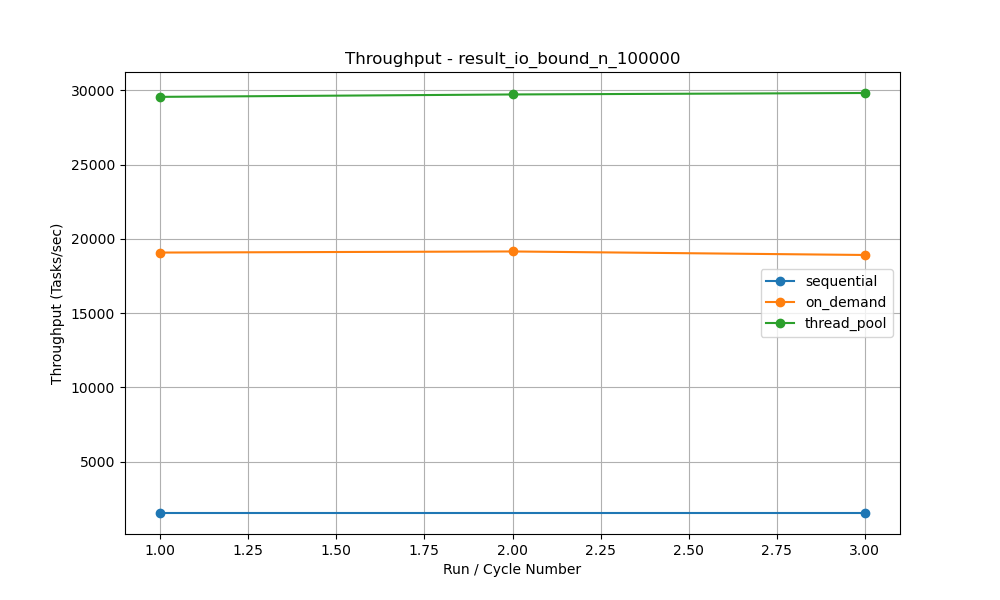
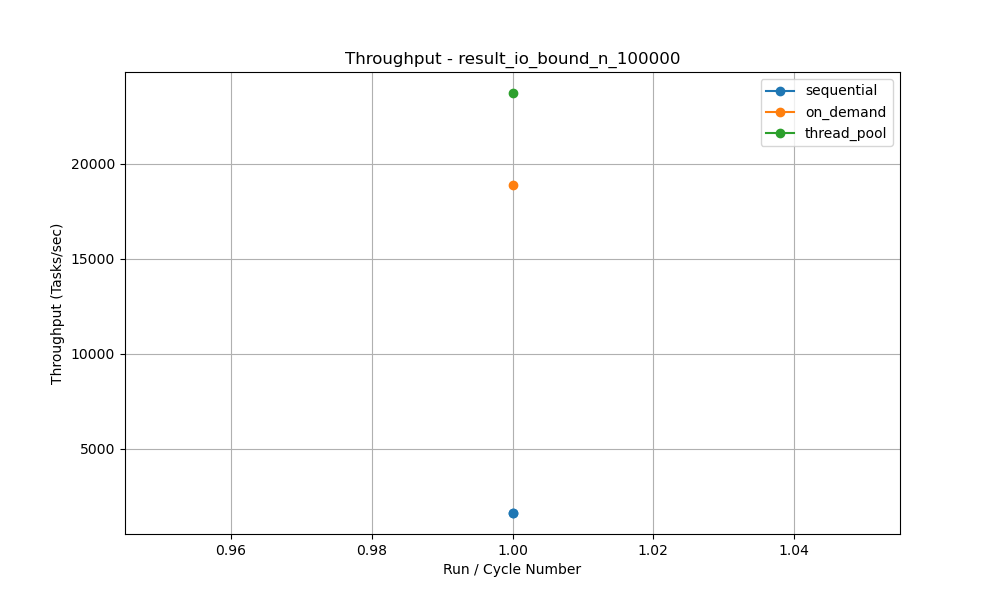
chore(benchmark): refresh benchmark artifacts from latest run
Regenerate plots, result tables, and LaTeX tables from the latest
benchmark run to keep committed artifacts in sync with raw data.

diff --git a/benchmark/res/tables.tex b/benchmark/res/tables.tex
@@ -6,8 +6,8 @@
 \toprule
 Benchmark & Mine (t/s) & Baseline (t/s) & Ratio & CV (mine / base) \\
 \midrule
-CPU-bound (fib30, 100K) & 4\,565.6 $\pm$ 2.3 & 4\,531.7 $\pm$ 1.4 & 1.007x & 0.05\% / 0.03\% \\
-IO-bound (64KB read, 100K) & 29\,698.7 $\pm$ 131.2 & 30\,085.2 $\pm$ 1\,180.9 & 0.987x & 0.44\% / 3.93\% \\
+CPU-bound (fib30, 100K) & 6\,096.4 $\pm$ 0.0 & 6\,141.6 $\pm$ 0.0 & 0.993x & 0.00\% / 0.00\% \\
+IO-bound (64KB read, 100K) & 23\,733.2 $\pm$ 0.0 & 23\,400.5 $\pm$ 0.0 & 1.014x & 0.00\% / 0.00\% \\
 \bottomrule
 \end{tabular}
 \end{table}
@@ -20,13 +20,13 @@ IO-bound (64KB read, 100K) & 29\,698.7 $\pm$ 131.2 & 30\,085.2 $\pm$ 1\,180.9 & 
 \toprule
 Workers & Mine (t/s) & Baseline (t/s) & Ratio \\
 \midrule
-1 & 8\,548.1 $\pm$ 30.1 & 8\,262.2 $\pm$ 24.9 & 1.035x \\
-2 & 17\,211.9 $\pm$ 30.3 & 16\,557.1 $\pm$ 121.5 & 1.040x \\
-4 & 34\,346.9 $\pm$ 78.8 & 33\,138.1 $\pm$ 73.7 & 1.036x \\
-8 & 58\,126.1 $\pm$ 818.8 & 56\,579.1 $\pm$ 150.2 & 1.027x \\
-16 & 66\,912.8 $\pm$ 208.1 & 63\,735.2 $\pm$ 429.4 & 1.050x \\
-32 & 66\,796.1 $\pm$ 283.7 & 63\,829.2 $\pm$ 59.0 & 1.046x \\
-64 & 66\,778.2 $\pm$ 254.2 & 63\,857.2 $\pm$ 172.3 & 1.046x \\
+1 & 12\,684.1 $\pm$ 34.3 & 12\,179.6 $\pm$ 54.4 & 1.041x \\
+2 & 25\,165.8 $\pm$ 36.1 & 24\,122.6 $\pm$ 27.8 & 1.043x \\
+4 & 47\,761.9 $\pm$ 217.1 & 46\,211.5 $\pm$ 315.5 & 1.034x \\
+8 & 87\,202.2 $\pm$ 2\,057.2 & 84\,599.2 $\pm$ 1\,733.6 & 1.031x \\
+16 & 92\,100.7 $\pm$ 1\,750.7 & 89\,294.1 $\pm$ 287.3 & 1.031x \\
+32 & 92\,022.8 $\pm$ 2\,975.9 & 89\,525.3 $\pm$ 606.3 & 1.028x \\
+64 & 91\,952.1 $\pm$ 1\,454.9 & 89\,095.2 $\pm$ 519.0 & 1.032x \\
 \bottomrule
 \end{tabular}
 \end{table}
@@ -39,11 +39,11 @@ Workers & Mine (t/s) & Baseline (t/s) & Ratio \\
 \toprule
 Workers & Mine (ops/s) & Baseline (ops/s) & Ratio \\
 \midrule
-1 & 3\,702\,692.2 $\pm$ 232\,164.0 & 5\,533\,950.3 $\pm$ 329\,751.0 & 0.669x \\
-2 & 3\,205\,438.5 $\pm$ 57\,715.6 & 4\,483\,572.0 $\pm$ 112\,952.2 & 0.715x \\
-4 & 1\,242\,745.0 $\pm$ 345\,427.7 & 1\,874\,934.0 $\pm$ 49\,907.6 & 0.663x \\
-8 & 800\,821.2 $\pm$ 36\,634.9 & 773\,287.0 $\pm$ 52\,084.6 & 1.036x \\
-16 & 728\,600.9 $\pm$ 19\,626.3 & 738\,767.7 $\pm$ 5\,122.1 & 0.986x \\
+1 & 5\,920\,081.2 $\pm$ 76\,410.6 & 8\,469\,928.1 $\pm$ 190\,271.0 & 0.699x \\
+2 & 5\,182\,658.2 $\pm$ 42\,833.2 & 7\,000\,034.1 $\pm$ 71\,943.0 & 0.740x \\
+4 & 3\,733\,903.4 $\pm$ 14\,005.3 & 4\,992\,465.7 $\pm$ 41\,381.1 & 0.748x \\
+8 & 1\,585\,654.7 $\pm$ 51\,711.0 & 2\,358\,960.3 $\pm$ 326\,279.8 & 0.672x \\
+16 & 813\,579.9 $\pm$ 21\,630.2 & 845\,507.9 $\pm$ 2\,003.4 & 0.962x \\
 \bottomrule
 \end{tabular}
 \end{table}
@@ -56,20 +56,20 @@ Workers & Mine (ops/s) & Baseline (ops/s) & Ratio \\
 \toprule
 Benchmark & Mine CV (\%) & Base CV (\%) & Stability advantage \\
 \midrule
-CPU-bound & 0.05\% & 0.03\% & 0.64x \\
-IO-bound & 0.44\% & 3.93\% & 8.89x \\
-Scaling 1w & 0.35\% & 0.30\% & 0.86x \\
-Scaling 2w & 0.18\% & 0.73\% & 4.17x \\
-Scaling 4w & 0.23\% & 0.22\% & 0.97x \\
-Scaling 8w & 1.41\% & 0.27\% & 0.19x \\
-Scaling 16w & 0.31\% & 0.67\% & 2.17x \\
-Scaling 32w & 0.42\% & 0.09\% & 0.22x \\
-Scaling 64w & 0.38\% & 0.27\% & 0.71x \\
-Queue 1w & 6.27\% & 5.96\% & 0.95x \\
-Queue 2w & 1.80\% & 2.52\% & 1.40x \\
-Queue 4w & 27.80\% & 2.66\% & 0.10x \\
-Queue 8w & 4.57\% & 6.74\% & 1.47x \\
-Queue 16w & 2.69\% & 0.69\% & 0.26x \\
+CPU-bound & 0.00\% & 0.00\% & 0.00x \\
+IO-bound & 0.00\% & 0.00\% & 0.00x \\
+Scaling 1w & 0.27\% & 0.45\% & 1.65x \\
+Scaling 2w & 0.14\% & 0.12\% & 0.80x \\
+Scaling 4w & 0.45\% & 0.68\% & 1.50x \\
+Scaling 8w & 2.36\% & 2.05\% & 0.87x \\
+Scaling 16w & 1.90\% & 0.32\% & 0.17x \\
+Scaling 32w & 3.23\% & 0.68\% & 0.21x \\
+Scaling 64w & 1.58\% & 0.58\% & 0.37x \\
+Queue 1w & 1.29\% & 2.25\% & 1.74x \\
+Queue 2w & 0.83\% & 1.03\% & 1.24x \\
+Queue 4w & 0.38\% & 0.83\% & 2.21x \\
+Queue 8w & 3.26\% & 13.83\% & 4.24x \\
+Queue 16w & 2.66\% & 0.24\% & 0.09x \\
 \bottomrule
 \end{tabular}
 \end{table}
